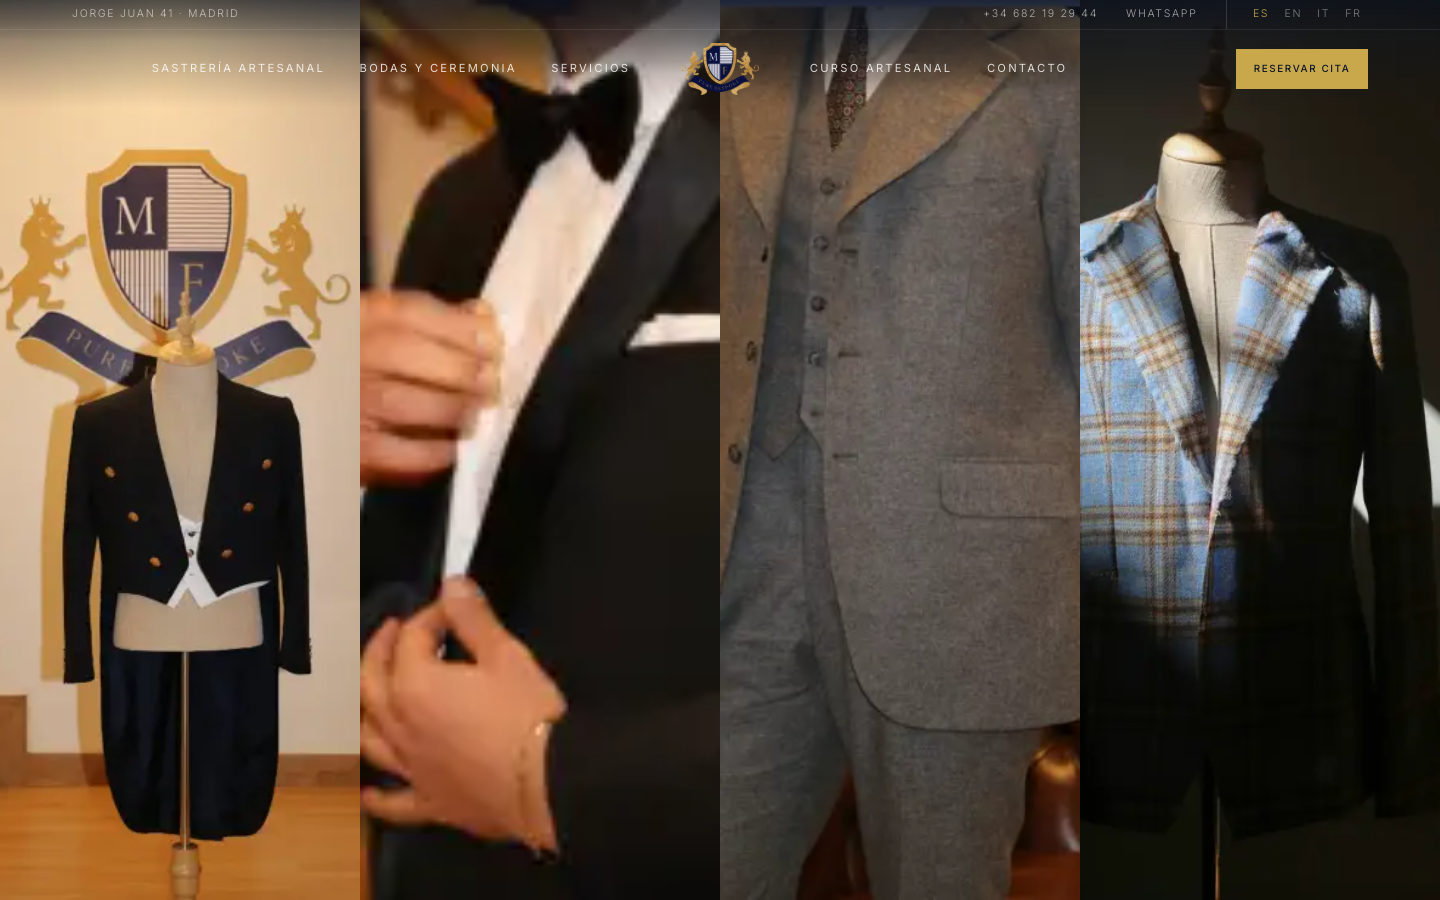
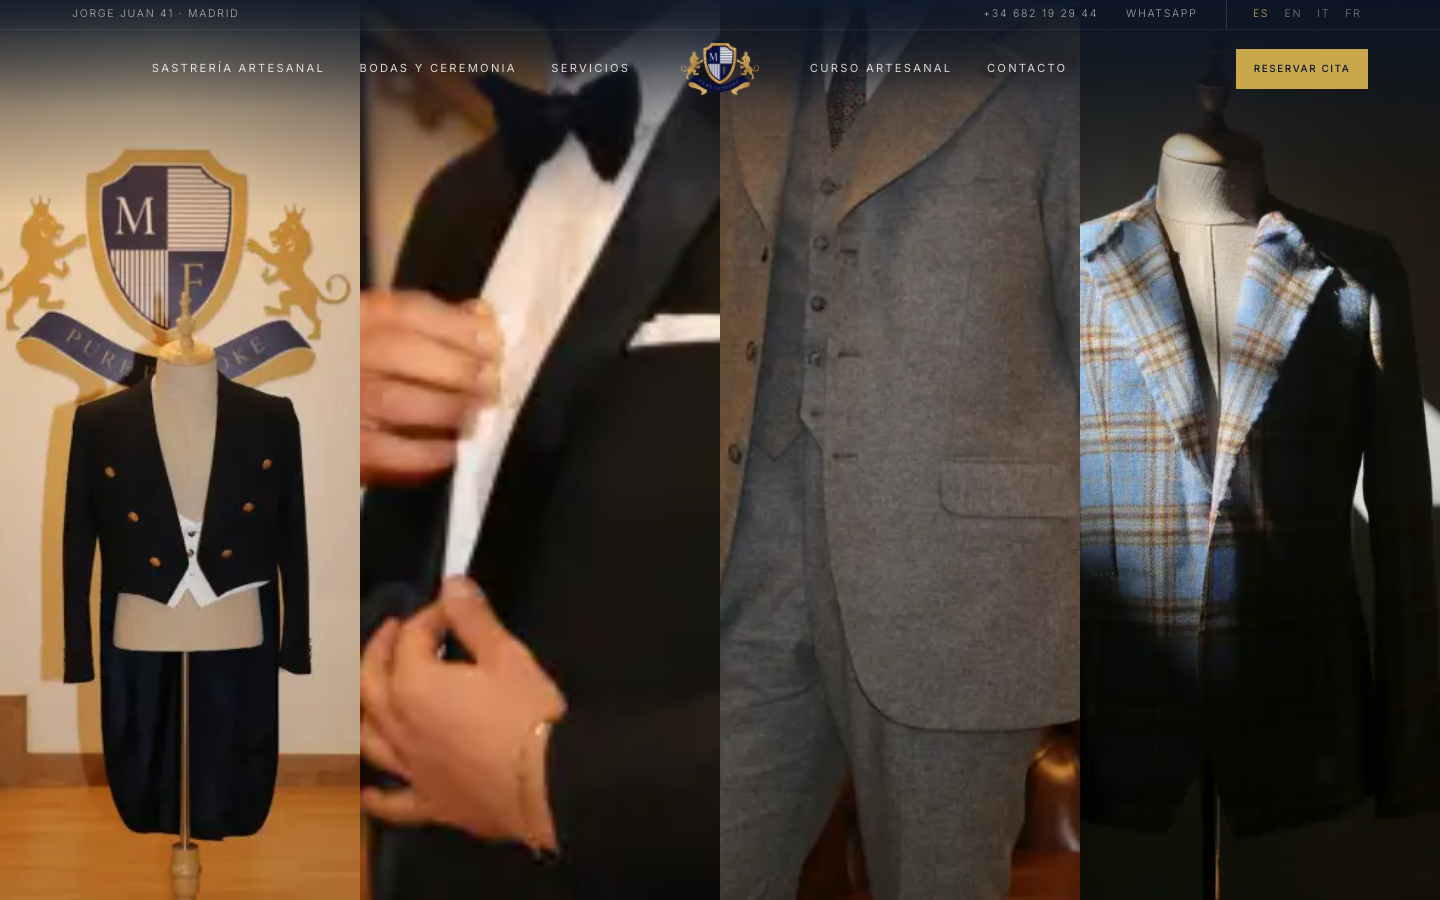
fix(redesign): Servicios B, keep the menu readable over the garment photos

Changed region(s): [[0.0, 0.0, 0.75, 0.2178], [0.7812, 0.0933, 0.8438, 0.2178], [0.375, 0.1556, 0.4375, 0.2178]]

diff --git a/app/preview/servicios/_components/servicios.module.css b/app/preview/servicios/_components/servicios.module.css
@@ -282,6 +282,9 @@
 .bHero .stage { min-height: 100svh; }
 .bBack { position: absolute; inset: 0; }
 .bRail { display: grid; grid-template-columns: 1fr 1fr; gap: 6px; padding: 6px; }
+/* keeps the menu readable over the light photographs */
+.bRail { position: relative; }
+.bRail::after { content: ''; position: absolute; inset: 0 0 auto; height: 24svh; z-index: 1; pointer-events: none; background: linear-gradient(180deg, rgba(10, 22, 40, 0.78), rgba(10, 22, 40, 0)); }
 .bRail > div { aspect-ratio: 3 / 4; }
 .bHeroStatic { position: relative; height: 100svh; }
 .page[data-staged] .bHeroStatic { position: absolute; inset: 0; height: auto; }
